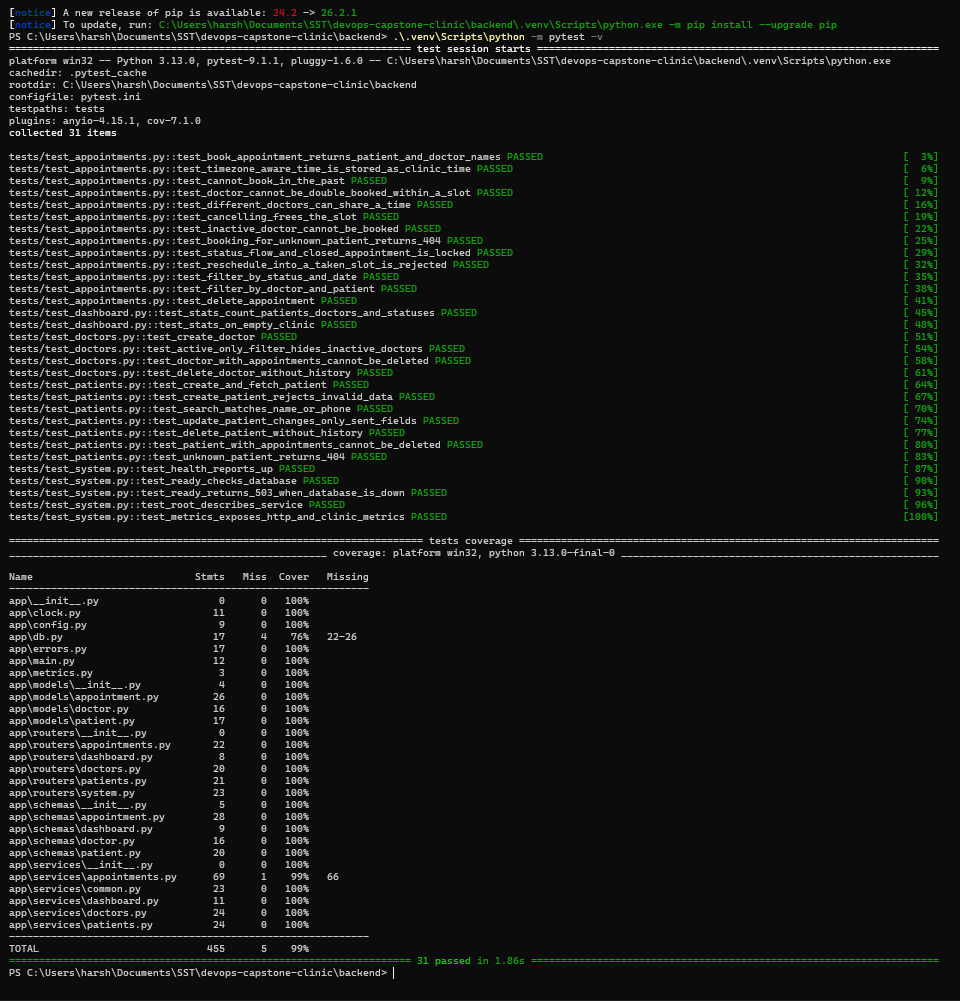
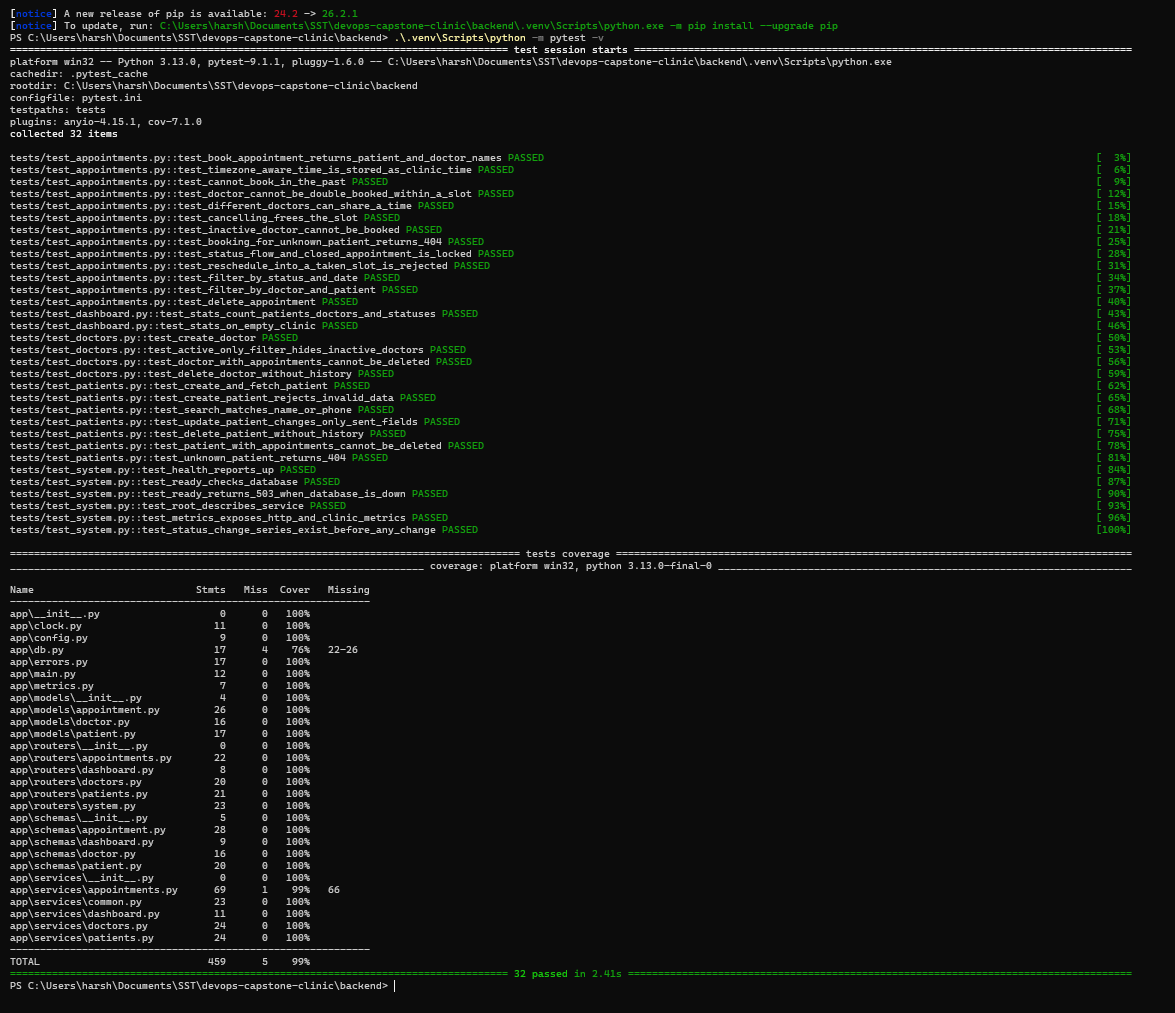
Write project README with setup steps and evidence

Changed region(s): [[0.0, 0.0, 0.9688, 0.991], [0.4375, 0.96, 0.5, 0.991], [0.4688, 0.4336, 0.5, 0.4645]]

diff --git a/README.md b/README.md
@@ -1,10 +1,358 @@
 # ClinicFlow: Clinic Appointment Management
 
-ClinicFlow is a clinic appointment management system built as the final DevOps capstone project.
-Front desk staff can register patients, manage doctors and book, complete or cancel appointments.
+[![CI/CD](https://github.com/Harshita-008/devops-capstone-clinic/actions/workflows/ci-cd.yml/badge.svg)](https://github.com/Harshita-008/devops-capstone-clinic/actions/workflows/ci-cd.yml)
 
-The project covers the full delivery path: application code, automated tests, Docker images,
-a GitHub Actions pipeline with Trivy scanning, AWS infrastructure with Terraform, deployment to
-Kubernetes with Helm, and monitoring with Prometheus and Grafana.
+ClinicFlow is a small system for the front desk of a clinic. Staff can register patients, manage
+doctors, book appointments and update each visit as it goes through the day (scheduled, checked in,
+completed or cancelled).
 
-Full documentation is added as each part of the project is completed.
+The API also enforces a few clinic rules:
+
+- a doctor cannot have two appointments within the same 30 minute slot
+- an appointment cannot be booked in the past or with a doctor who is not taking bookings
+- a patient or doctor with appointment history cannot be deleted, because that history is a medical record
+
+This is my final DevOps capstone project. I built the application and then took it through the full
+DevOps flow: tests, Docker, a CI/CD pipeline with security scanning, AWS infrastructure with
+Terraform, Kubernetes with Helm, autoscaling, monitoring and automatic deployment.
+
+## Architecture
+
+```text
+Developer
+   |  git push
+   v
+GitHub Actions
+   |  ruff + pytest, ESLint + frontend build
+   |  docker build, Trivy scan, push to GHCR (tag = commit SHA)
+   |  commit the new image tag to helm/clinicflow/values.yaml
+   v
+Argo CD (inside the cluster, watches main)
+   |
+   v
+Kubernetes (kind)
+   Traefik Ingress: clinicflow.localhost
+     /     ->  frontend (React + nginx, 2 pods)
+     /api  ->  backend  (FastAPI, 2 to 5 pods with HPA)  ->  PostgreSQL (StatefulSet)
+   Prometheus scrapes /metrics  ->  Grafana dashboard
+
+Terraform  ->  AWS ap-south-1: VPC (2 public + 2 private subnets) and EKS cluster
+```
+
+## Tech stack
+
+| Part | Tools |
+|------|-------|
+| Frontend | React, Vite, ESLint, nginx |
+| Backend | Python 3.13, FastAPI, SQLAlchemy, Alembic |
+| Database | PostgreSQL 17 |
+| Testing | pytest, pytest-cov, ruff |
+| Containers | Docker (multi-stage), Docker Compose |
+| CI/CD | GitHub Actions, GitHub Container Registry, Trivy |
+| Infrastructure | Terraform, AWS VPC, Amazon EKS |
+| Kubernetes | kind, Helm, Traefik Ingress, metrics-server, HPA |
+| Deployment | Argo CD |
+| Monitoring | Prometheus, Grafana |
+
+## Repository structure
+
+```text
+backend/            FastAPI app (models, schemas, services, routers), Alembic migrations, tests
+frontend/           React app and the nginx config used in its image
+docker-compose.yml  frontend + backend + PostgreSQL on one machine
+.github/workflows/  CI/CD pipeline
+terraform/          AWS VPC and EKS cluster
+k8s/                kind cluster config, namespace, Traefik and metrics-server values, load test
+helm/clinicflow/    Helm chart and the Grafana dashboard
+monitoring/         Prometheus and Grafana (kube-prometheus-stack) values
+gitops/             Argo CD values and the Application
+troubleshooting/    broken manifests for the troubleshooting lab
+screenshots/        evidence for each part of the project
+```
+
+## API
+
+There are 19 REST endpoints. The Swagger page is at `/docs`.
+
+| Resource | Endpoints |
+|----------|-----------|
+| Patients | `GET, POST /api/patients`, `GET, PUT, DELETE /api/patients/{id}` |
+| Doctors | `GET, POST /api/doctors`, `GET, PUT, DELETE /api/doctors/{id}` |
+| Appointments | `GET, POST /api/appointments`, `GET, PUT, DELETE /api/appointments/{id}` |
+| Dashboard | `GET /api/dashboard/stats` |
+| System | `/` (service info), `/health` (liveness), `/ready` (checks the database) |
+
+The backend also serves `/metrics` for Prometheus.
+
+## Run locally with Docker Compose
+
+```bash
+docker compose up --build -d
+docker compose ps
+```
+
+All three services should show `(healthy)`. Then open:
+
+- http://localhost:3000 for the app
+- http://localhost:8000/docs for the API docs
+- http://localhost:8000/metrics for the metrics
+
+The backend runs the Alembic migrations when it starts, so the tables and four sample doctors are
+created automatically.
+
+## Tests
+
+```bash
+cd backend
+python -m venv .venv
+.venv/Scripts/python -m pip install -r requirements-dev.txt
+.venv/Scripts/python -m pytest -v
+```
+
+There are 32 tests with 99% coverage. They use an in-memory SQLite database (set up in
+`tests/conftest.py`), so they never touch the real PostgreSQL database. Besides the normal CRUD
+calls, they test the clinic rules, the filters, `/ready` returning 503 when the database is down,
+and the metrics endpoint. The pipeline also runs `ruff` on the backend and ESLint on the frontend.
+
+## CI/CD pipeline
+
+The workflow in `.github/workflows/ci-cd.yml` runs on every push and pull request to `main`.
+
+1. **Backend lint and tests:** ruff and pytest
+2. **Frontend lint and build:** ESLint and `vite build`
+3. **Build, scan and push:** builds the backend and frontend images, scans them with Trivy and pushes
+   them to GHCR. This only runs if steps 1 and 2 pass, so a failing test stops the pipeline.
+4. **Deploy via GitOps:** writes the new image tag into `helm/clinicflow/values.yaml` and commits it.
+   Argo CD sees this commit and deploys it.
+
+Images are tagged with the commit SHA only, for example
+`ghcr.io/harshita-008/clinicflow-backend:4b0657b18e17c99a2f1a2138b5aec570898119c3`, so every running
+pod can be traced back to one commit. Pull requests build and scan the images but do not push or
+deploy them.
+
+A green run of the full pipeline:
+https://github.com/Harshita-008/devops-capstone-clinic/actions/runs/38243699393
+
+## Security scan (Trivy)
+
+Trivy scans both images in the pipeline and fails the build on any HIGH or CRITICAL vulnerability
+that has a fix available (`ignore-unfixed: true`). Vulnerabilities without a released fix cannot be
+fixed by me, so they would only block every build.
+
+**What Trivy scanned and what the result means:** Trivy checked the OS packages of both images
+(Debian 13 for the backend, Alpine 3.24 for the frontend) and the Python packages in the backend.
+The first scan of the backend found 4 HIGH vulnerabilities, for example CVE-2026-97687 in `urllib3`,
+which allows traffic interception through an HTTPS proxy. These libraries were not my dependencies;
+they came bundled inside `pip`. The app does not need pip to run, so I removed it from the final
+image. After that both images scan clean, which means no known fixable HIGH or CRITICAL issue was
+found when they were built.
+
+## Terraform (AWS)
+
+The `terraform/` folder creates the cloud infrastructure in `ap-south-1` (Mumbai):
+
+- a VPC with 2 public and 2 private subnets in 2 availability zones, an internet gateway and one NAT gateway
+- an EKS cluster (Kubernetes 1.35) with a managed node group
+- `terraform.tfvars.example` shows the variables; AWS credentials come from the AWS CLI and are never in the code
+
+```bash
+cd terraform
+terraform init
+terraform plan "-out=clinicflow.tfplan"
+terraform apply "clinicflow.tfplan"
+terraform destroy
+```
+
+I applied it, checked the VPC and cluster in the AWS console and with `kubectl get nodes`, and then
+destroyed it in the same session to avoid charges. To keep the cost low it uses one NAT gateway and
+one small node.
+
+## Kubernetes and Helm
+
+To save cost, the app runs on a local kind cluster.
+
+```bash
+kind create cluster --config k8s/kind-cluster.yaml
+helm install traefik traefik/traefik --version 41.7.1 -n traefik --create-namespace -f k8s/addons/traefik-values.yaml --wait
+helm install metrics-server metrics-server/metrics-server --version 3.14.0 -n kube-system -f k8s/addons/metrics-server-values.yaml --wait
+kubectl apply -f k8s/namespace.yaml
+helm upgrade --install clinicflow helm/clinicflow -n clinicflow --wait
+```
+
+The app then opens at http://clinicflow.localhost.
+
+The Helm chart `helm/clinicflow` contains:
+
+- backend and frontend Deployments (2 replicas each) with ClusterIP Services
+- PostgreSQL as a StatefulSet with a persistent volume
+- a Secret with the database settings
+- an Ingress that sends `/api` to the backend and `/` to the frontend
+- an HPA for the backend
+- a ServiceMonitor and the Grafana dashboard (only added when Prometheus is installed)
+
+All pods have liveness and readiness probes. The backend and frontend containers also run as
+non-root users and drop all Linux capabilities. Database migrations run in an init container before the backend starts. Alembic takes
+a PostgreSQL lock first, so two pods starting together never migrate the database at the same time.
+
+## Deployment with Argo CD
+
+GitHub Actions cannot reach a cluster running on my laptop, so I used Argo CD inside the cluster.
+It watches `helm/clinicflow` on `main` and applies every change it finds.
+
+```bash
+helm install argocd argo/argo-cd --version 10.10.2 -n argocd --create-namespace -f gitops/argocd-values.yaml --wait
+kubectl apply -f gitops/clinicflow-application.yaml
+```
+
+Auto sync is on, with `prune` and `selfHeal`, so the cluster always matches Git. A commit reaches
+the cluster about 3 to 4 minutes after `git push`, and every deployment can be rolled back from the
+Argo CD history.
+
+## Autoscaling
+
+The backend HPA keeps between 2 and 5 pods and targets 60% CPU. `k8s/load-test.yaml` sends requests
+to the backend for 3 minutes:
+
+```bash
+kubectl apply -f k8s/load-test.yaml
+kubectl get hpa -n clinicflow -w
+```
+
+During the test the backend scaled from 2 to 5 pods in about a minute and went back to 2 after the
+load stopped.
+
+## Monitoring
+
+```bash
+helm install monitoring prometheus-community/kube-prometheus-stack --version 92.3.0 -n monitoring --create-namespace -f monitoring/kube-prometheus-stack-values.yaml --wait
+```
+
+- Prometheus: http://prometheus.localhost
+- Grafana: http://grafana.localhost (local demo login `admin` / `clinicflow-admin`)
+
+Prometheus scrapes the backend `/metrics` endpoint every 15 seconds. The ClinicFlow dashboard is
+stored in the Helm chart and Grafana loads it automatically. It shows requests per second, error
+rate, p95 latency, CPU per pod, the number of backend pods and the HPA, plus two clinic metrics:
+appointments booked and appointment status changes.
+
+## Troubleshooting lab
+
+[troubleshooting/README.md](troubleshooting/README.md) has two broken setups with the steps I used
+to find and fix them:
+
+1. a wrong image tag, which gives `ImagePullBackOff`
+2. a Service with a typo in its selector, which has no endpoints
+
+## Why I chose some tools
+
+| Choice | Reason |
+|--------|--------|
+| Traefik instead of ingress-nginx | ingress-nginx was archived in March 2026 and gets no more security fixes. Traefik uses the same Kubernetes Ingress resource. |
+| Argo CD | The pipeline cannot reach a local cluster, so the cluster pulls changes from Git instead. |
+| kind for Kubernetes | It runs everything for free. EKS was created with Terraform, checked and then destroyed. |
+| Commit SHA image tags | `latest` hides which version is running; a SHA points to one exact commit. |
+
+## Screenshots
+
+### Application
+
+Dashboard running with Docker Compose:
+
+![Dashboard on localhost:3000](screenshots/img_3.png)
+
+API docs, with a live request and the full list of endpoints:
+
+![Swagger request](screenshots/img_4a.png)
+![Swagger endpoints](screenshots/img_4b.png)
+
+PostgreSQL tables created by Alembic, with saved appointments:
+
+![PostgreSQL tables](screenshots/img_5.png)
+
+Health check, readiness check and metrics:
+
+![Health and metrics](screenshots/img_7.png)
+
+### Tests
+
+![pytest](screenshots/img_1.png)
+
+### Git
+
+![Commit history](screenshots/img_31.png)
+
+### Docker
+
+![docker compose up](screenshots/img_2.png)
+![Non-root containers and image sizes](screenshots/img_6.png)
+
+### CI/CD and Trivy
+
+![Pipeline run](screenshots/img_8.png)
+![Trivy backend](screenshots/img_9a.png)
+![Trivy frontend](screenshots/img_9b.png)
+![GHCR backend](screenshots/img_10a.png)
+![GHCR frontend](screenshots/img_10b.png)
+
+### Terraform
+
+![terraform plan](screenshots/img_11.png)
+![terraform apply](screenshots/img_12.png)
+![VPC](screenshots/img_13a.png)
+![VPC subnets](screenshots/img_13b.png)
+![EKS node group](screenshots/img_13c.png)
+![EKS cluster](screenshots/img_13d.png)
+![kubectl get nodes on EKS](screenshots/img_13e.png)
+![terraform destroy](screenshots/img_14.png)
+
+### Kubernetes and Helm
+
+![helm upgrade --install](screenshots/img_15.png)
+![Pods and Services](screenshots/img_16.png)
+![helm list, Ingress and HPA](screenshots/img_17.png)
+![App through the Ingress](screenshots/img_18.png)
+
+### Autoscaling
+
+![HPA scaling](screenshots/img_19.png)
+![Pods under load](screenshots/img_20.png)
+
+### Troubleshooting
+
+![Wrong image](screenshots/img_21.png)
+![Wrong image fixed](screenshots/img_22.png)
+![Service without endpoints](screenshots/img_23.png)
+![Service fixed](screenshots/img_24.png)
+
+### Monitoring
+
+![Prometheus target](screenshots/img_25.png)
+![Grafana dashboard](screenshots/img_26.png)
+
+### Commit to deployment
+
+Argo CD in sync with Git:
+
+![Argo CD](screenshots/img_27.png)
+
+I changed the text under the logo and pushed. The pipeline tested, built, scanned and pushed the
+images, then committed the new tag:
+
+![Pipeline with deploy job](screenshots/img_28.png)
+
+Argo CD deployed it automatically:
+
+![Argo CD history](screenshots/img_29.png)
+
+The change live in the app:
+
+![Change live](screenshots/img_30.png)
+
+## Cleanup
+
+```bash
+kind delete cluster --name clinicflow
+docker compose down -v
+```
+
+The AWS resources were already removed with `terraform destroy`.
